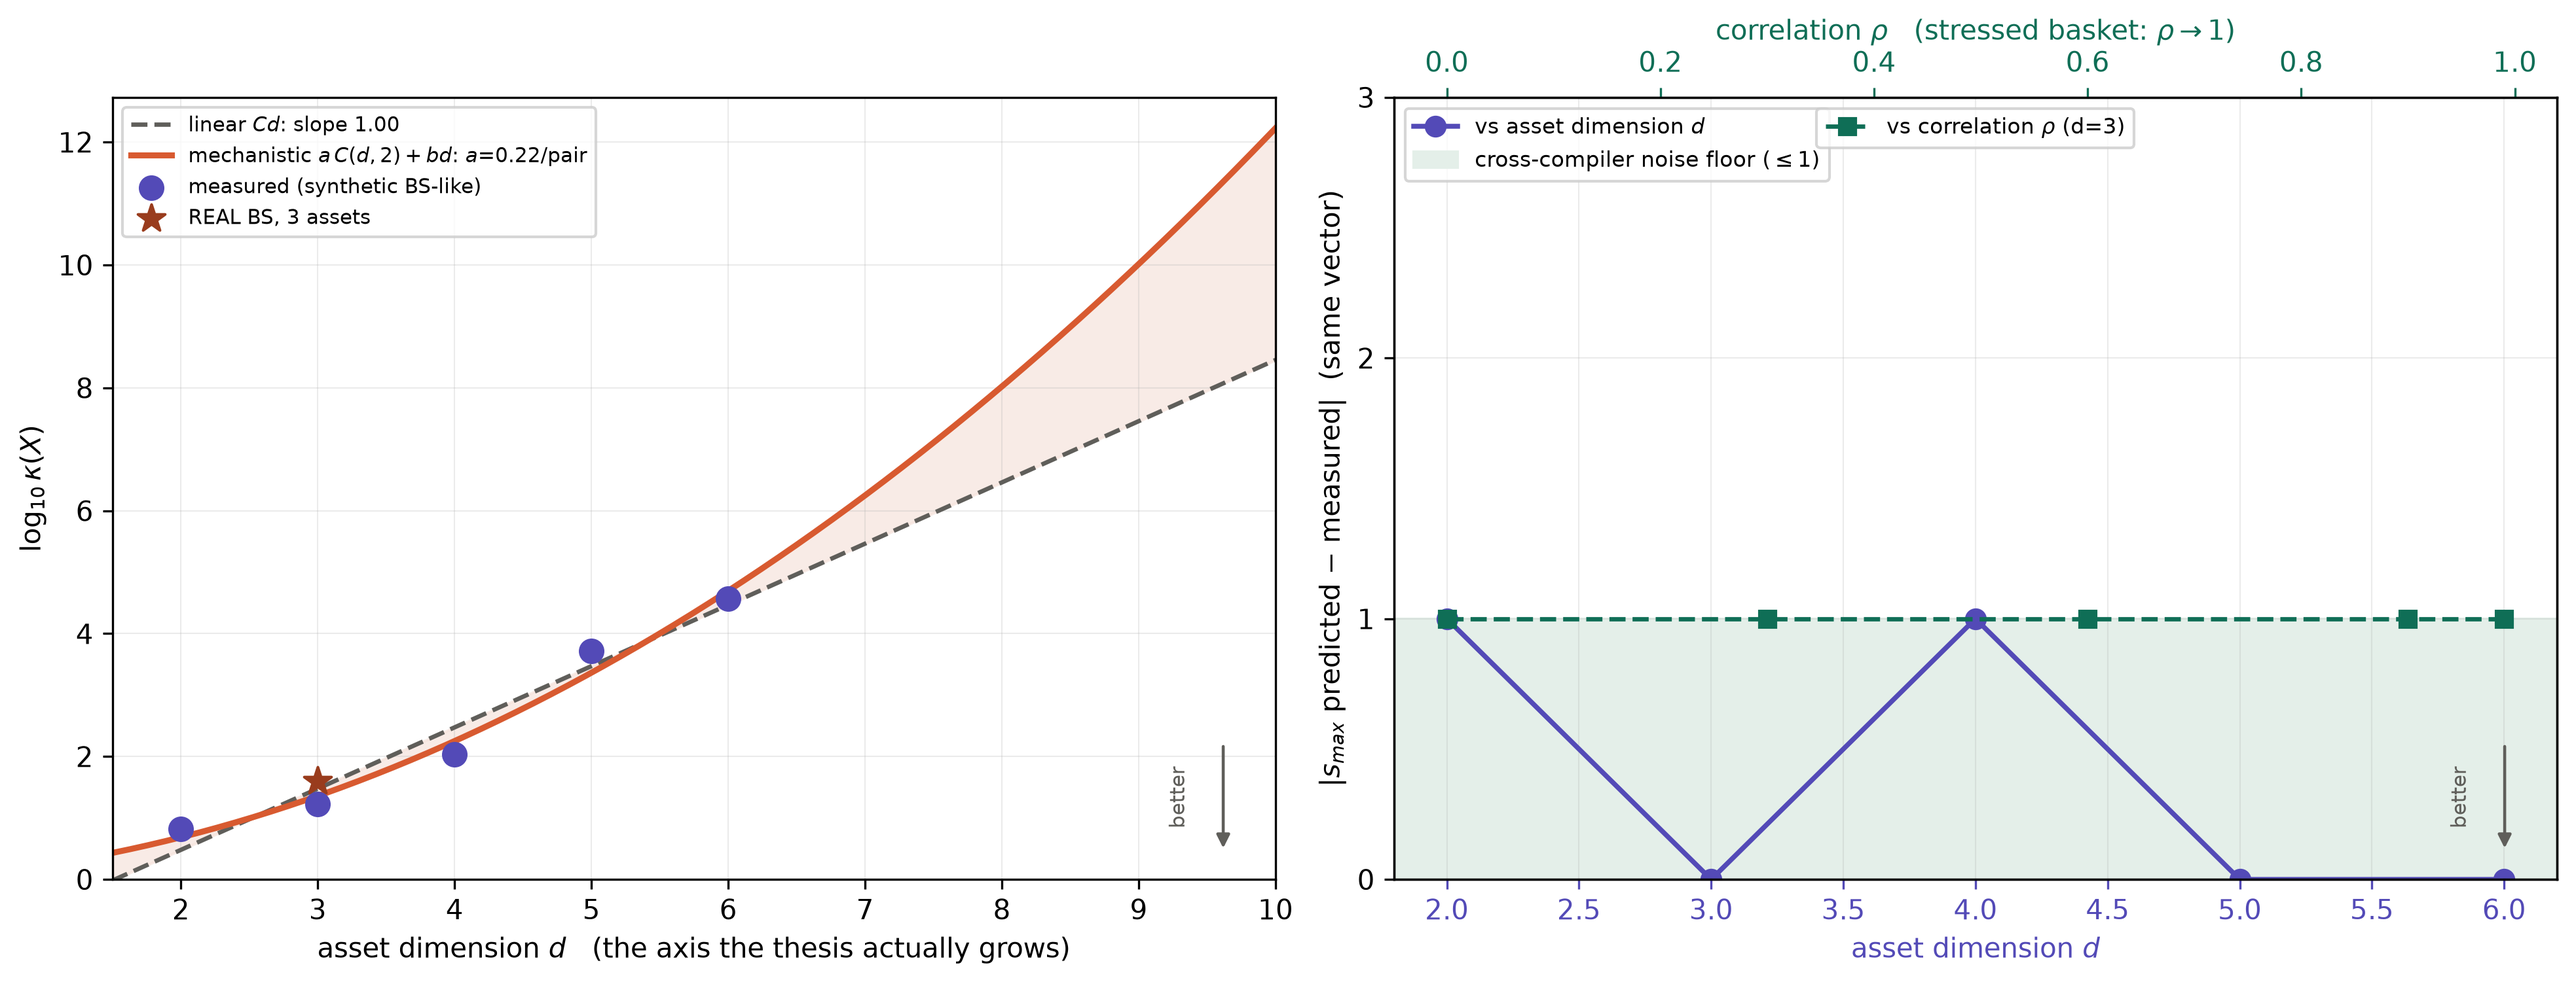
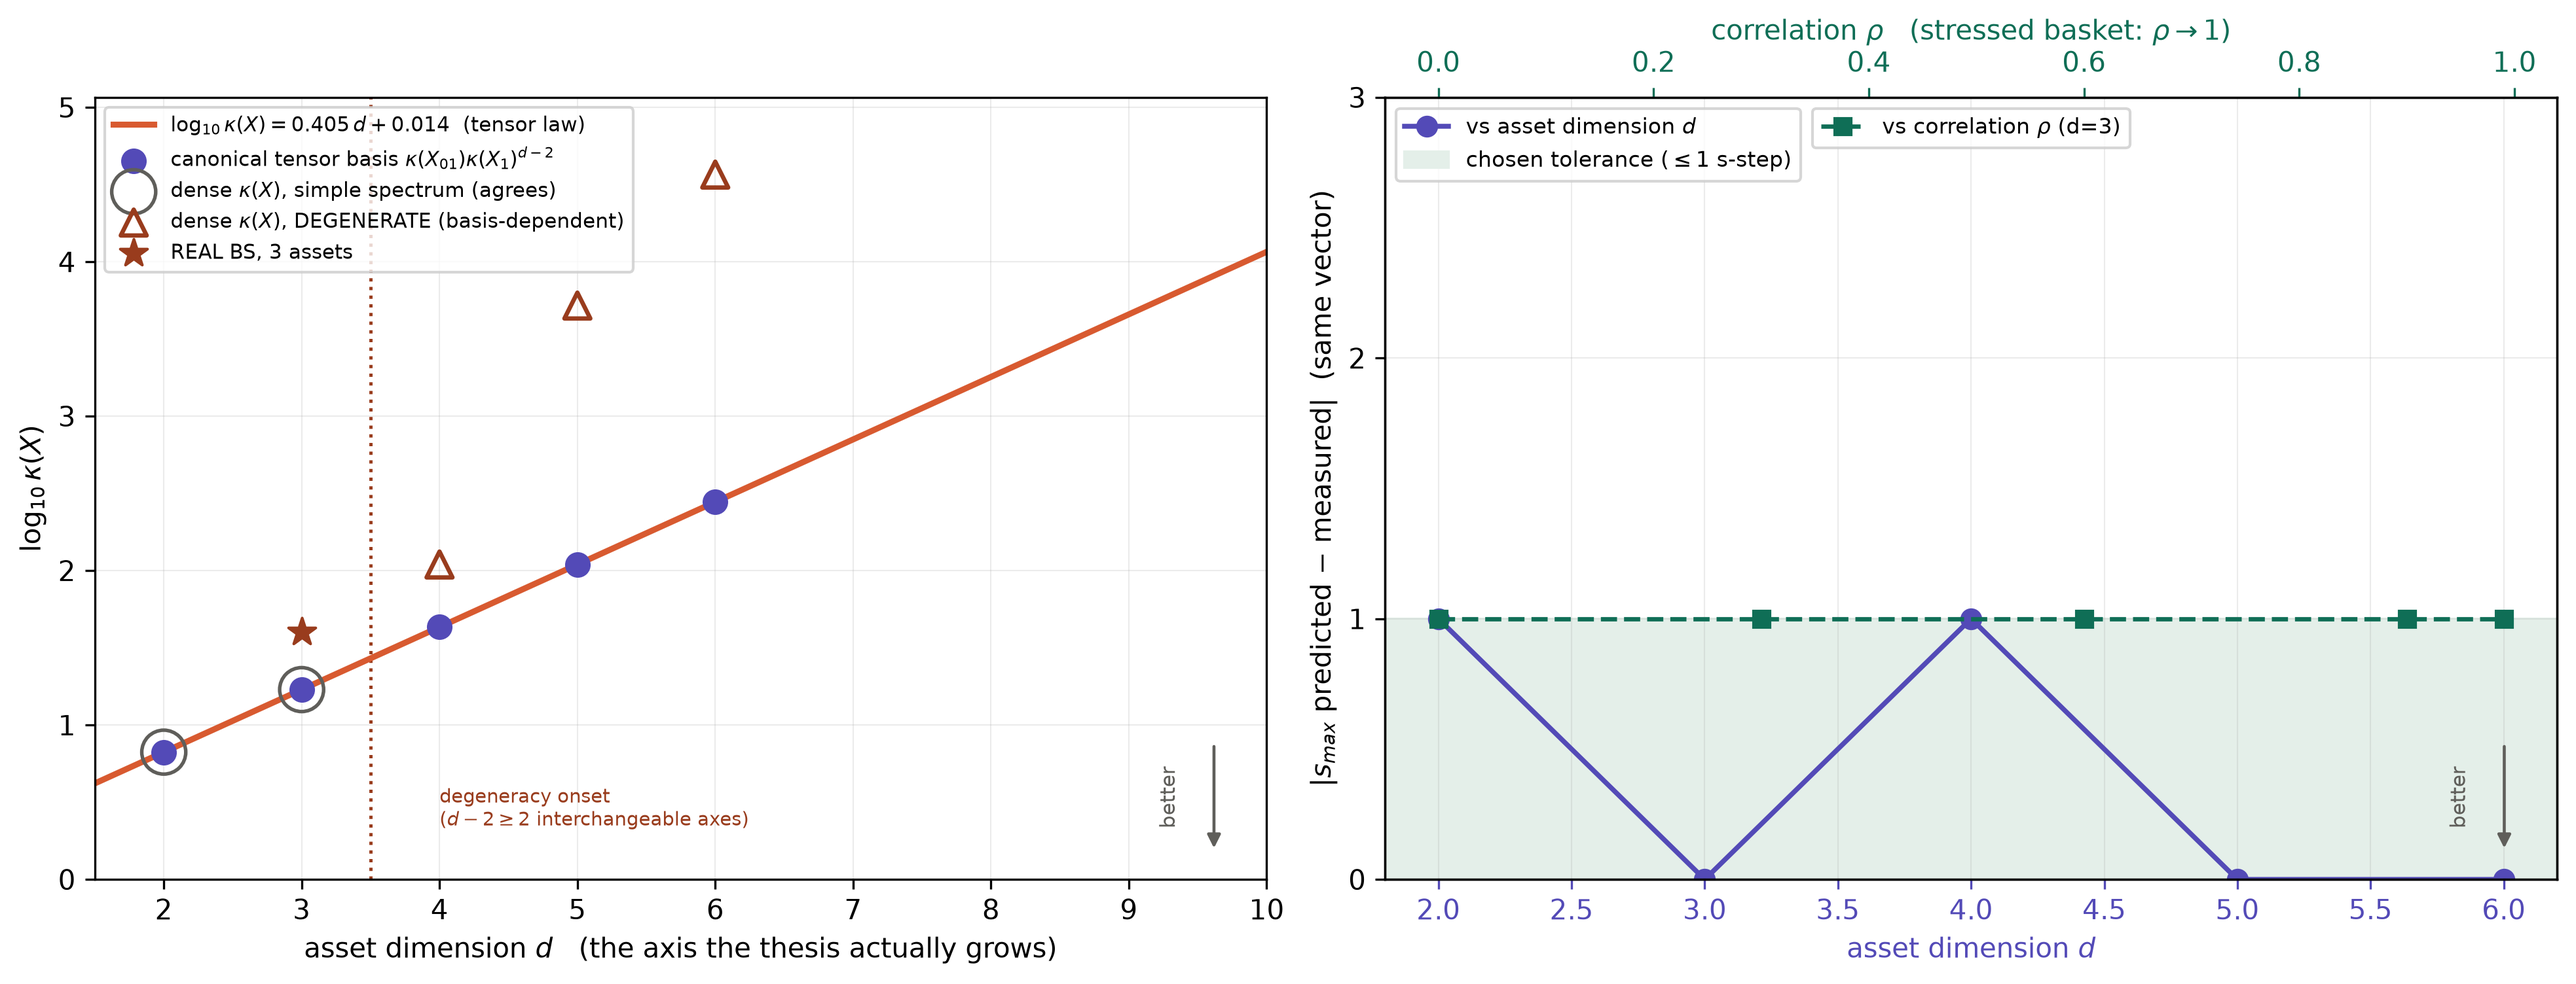
refactor: updated regime plots

diff --git a/scripts/plots/regime_plot.py b/scripts/plots/regime_plot.py
@@ -121,6 +121,29 @@ def kappa_at(run, s_target):
             return float(r["kappa_predicted"])
     return None
 
+
+def kappa_X_of(run):
+    """kappa(X) for the law's x-axis, preferring the canonical tensor-basis value.
+
+    The dense kappa_X names a property of the operator only while the spectrum is simple.
+    The constant-coefficient arm (correlation = 0, var_advection = 0, dim >= 2) is a pure
+    Kronecker sum, so its axes are interchangeable, the spectrum repeats, and the dense value
+    is inflated by up to 173x, non-monotone in gamma (1731 at 0.05 falling to 1372 at 0.1),
+    and moves 1.4-7.9x under exact similarities. The variable-coefficient arm ramps axis 0
+    alone, leaving one clean axis, so its spectrum is simple and its dense value is sound.
+    Fitting the two arms against x-axes of different validity is what this avoids.
+
+    Returns (value, is_canonical). Falls back to the dense value for CSVs written before
+    kappa_X_struct existed, and for operators that do not factor (real BS, var_advection).
+    """
+    try:
+        ks = float(run[0].get("kappa_X_struct", "nan"))
+    except (TypeError, ValueError):
+        ks = float("nan")
+    if np.isfinite(ks) and ks > 0.0:
+        return ks, True
+    return scalar(run, "kappa_X"), False
+
 def normal_scaffold(k):
     """A normal, separable synthetic run: advection, correlation and var_advection all 0,
     and not the real BS operator. The real operator zeroes every synthetic knob yet carries
@@ -383,12 +406,16 @@ def plot_nonnormality(runs) -> None:
     # survives deep into the non-normal regime.
     fam = {"const": ([], []), "var": ([], [])}   # per-MECHANISM points for separate fits
     seen = set()
-    for run in sorted(group, key=lambda r: scalar(r, "kappa_X")):
+    n_canon, n_dense = 0, 0
+    for run in sorted(group, key=lambda r: kappa_X_of(r)[0]):
         g = gap_at(run)
         if g is None:
             continue
         name, mech, col = classify(run)
-        lx = np.log10(max(scalar(run, "kappa_X"), 1.0))
+        kx, canonical = kappa_X_of(run)
+        n_canon += int(canonical)
+        n_dense += int(not canonical)
+        lx = np.log10(max(kx, 1.0))
         # A star for the real operator, so it reads as a placed test point rather than one
         # more sample in a synthetic family. Larger and drawn on top.
         is_real = (mech == "real")
@@ -420,7 +447,8 @@ def plot_nonnormality(runs) -> None:
                label="one $s$-step ($\\approx$1.2 decades)")
     ax.set_xlim(-0.3, lxmax + 0.5)
     ax.set_ylim(-0.1, min(lxmax + 0.5, 3.2))
-    ax.set_xlabel(r"$\log_{10}\kappa(X)$   (unit-2-norm eigenvector conditioning)")
+    ax.set_xlabel(r"$\log_{10}\kappa(X)$   (canonical tensor basis where the spectrum "
+                  r"is degenerate)")
     ax.set_ylabel(r"prediction error  $|\log_{10}\kappa_{meas}-\log_{10}\kappa_{pred}|$")
     ax.grid(alpha=0.25, lw=0.5)
     ax.legend(fontsize=7.5, loc="upper left")
@@ -434,6 +462,13 @@ def plot_nonnormality(runs) -> None:
     ratio = (slopes.get("var", 0) / slopes["const"]) if slopes.get("const") else 0
     print(f"  const-coeff slope    : {slopes.get('const', 0):.3f}")
     print(f"  variable-coeff slope : {slopes.get('var', 0):.3f}  (~{ratio:.0f}x steeper)")
+    print(f"  x-axis: {n_canon} point(s) canonical, {n_dense} dense")
+    if n_dense and not n_canon:
+        print("  (warn) no kappa_X_struct column anywhere: this CSV predates it, so the "
+              "constant-\n         coefficient arm is fitted against a degenerate, "
+              "basis-dependent x-axis.\n         Re-run the control sweeps. The const slope "
+              "shifts by ~10% either way\n         depending on which points are in the fit; "
+              "the ~4x separation is robust.")
 
 
 # Operator properties, for reference when writing the caption. Normality is what the
